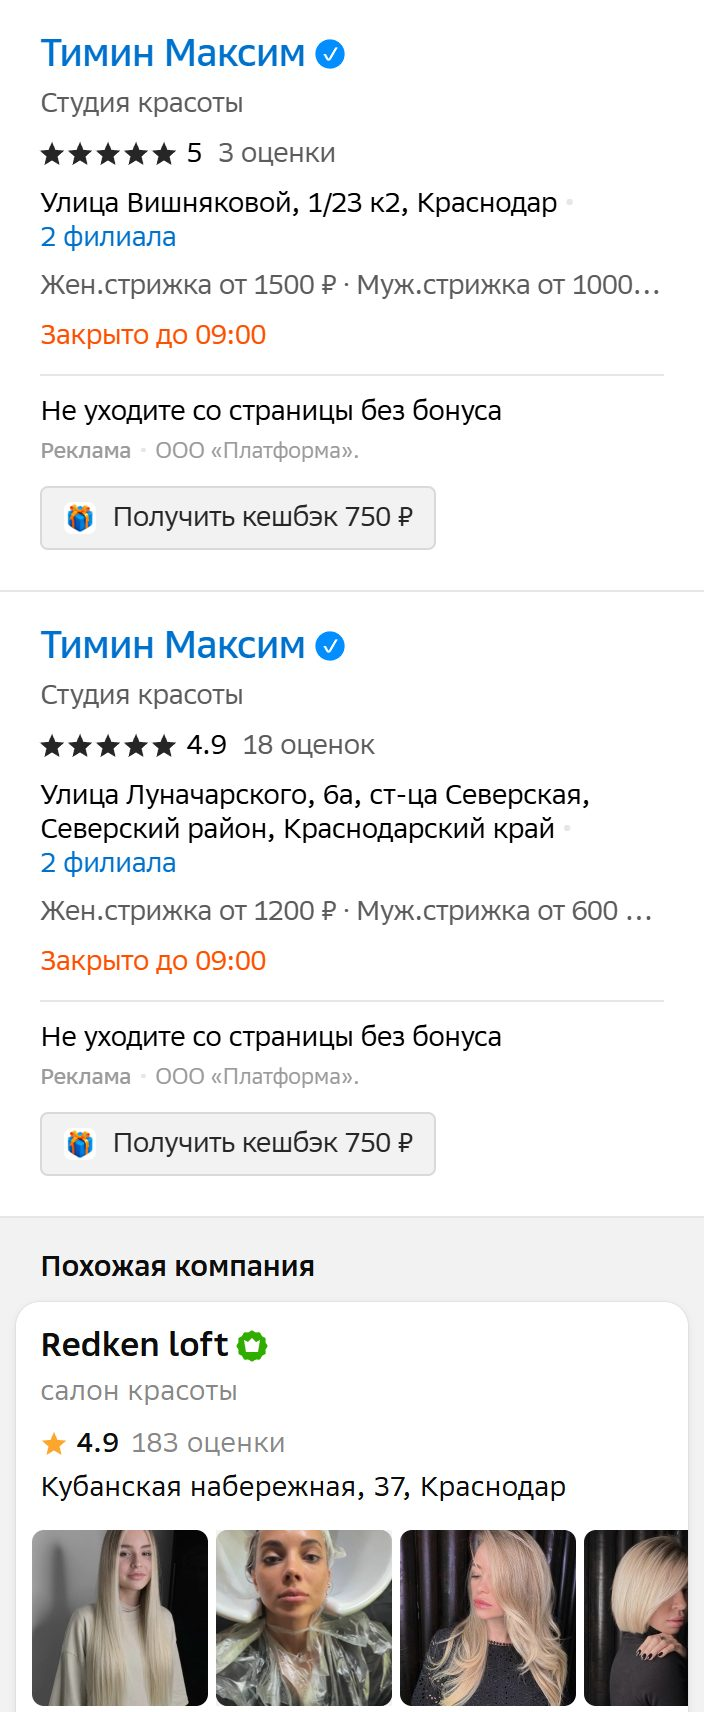
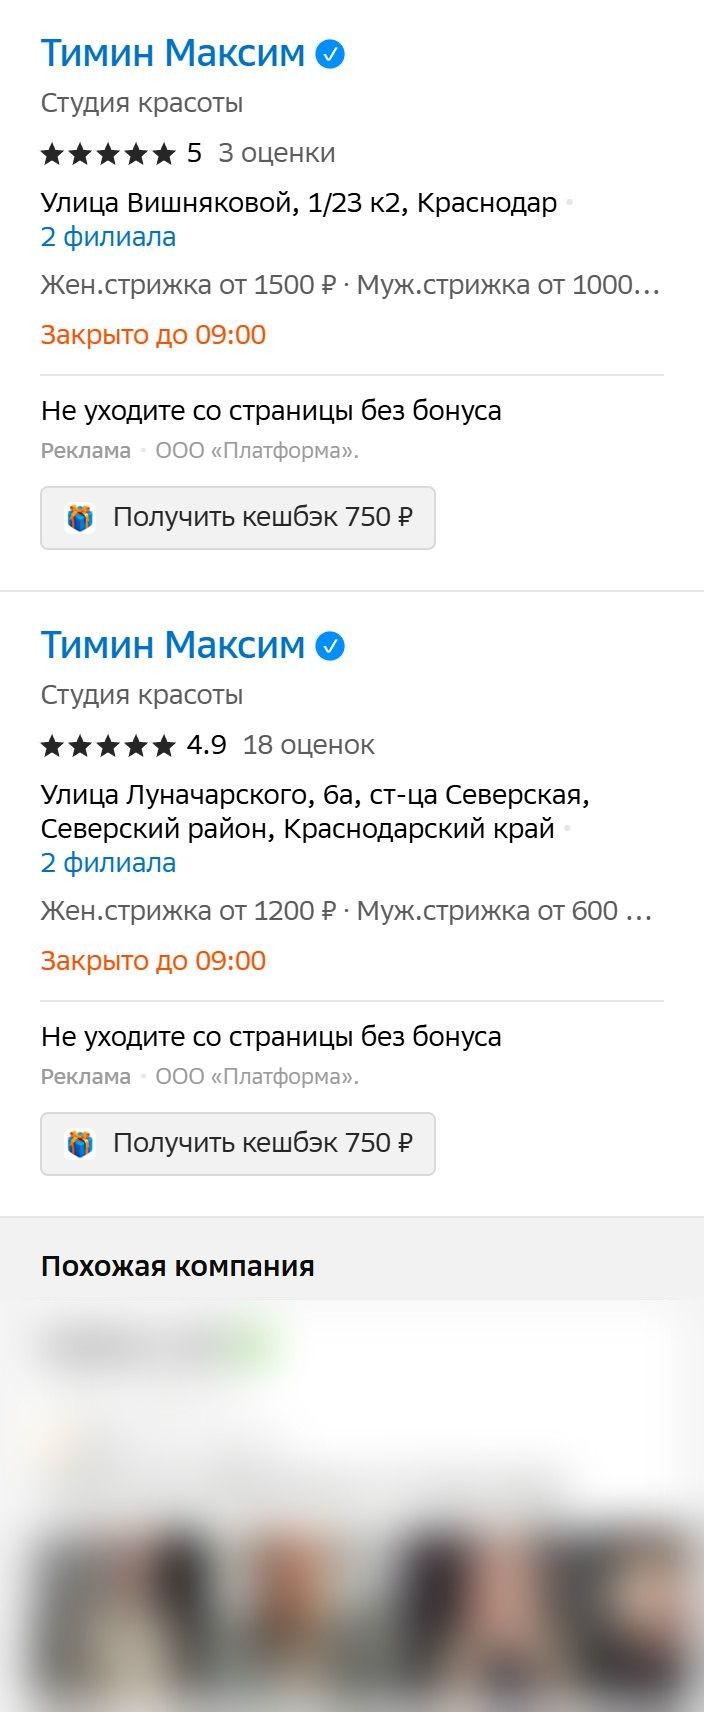
Сайт 2026-10-08 15:29

Changed region(s): [[0.0, 0.743, 1.0, 1.0]]

diff --git a/razbor/index.html b/razbor/index.html
@@ -33,11 +33,11 @@
 <article class="item">
   <span class="num">01</span>
   <h2>По вашему имени 2ГИС показывает соседей</h2>
-  <p>По запросу «Тимин Максим» в 2ГИС сразу под вашими карточками идёт блок «Похожая компания» с рекламой другого салона. 7 и 8 октября там показывались Redken loft и «Стрижка shop». У Redken loft в блоке кнопка «Записаться онлайн», в ваших карточках такой нет.</p>
-  <p>Оценок у вас в 2ГИС 18 в Северской и 3 в Краснодаре, у Redken loft — 183.</p>
+  <p>По запросу «Тимин Максим» в 2ГИС сразу под вашими карточками идёт блок «Похожая компания» с рекламой другого салона. Клиентка искала именно вас, а 2ГИС тут же предлагает ей соседей. Записаться онлайн из ваших карточек нельзя.</p>
+  <p>Оценок у вас в 2ГИС 18 в Северской и 3 в Краснодаре, хотя на Яндексе у Северской их 160.</p>
   <figure>
-    <a class="zoom" href="img/2gis.jpg"><picture><source type="image/webp" srcset="img/2gis.webp"><img class="shot shot--narrow" src="img/2gis.jpg" width="704" height="1712" alt="2ГИС, поиск «Тимин Максим»: две карточки студии и под ними блок «Похожая компания» с салоном Redken loft" loading="lazy"></picture></a>
-    <figcaption>2ГИС, поиск «Тимин Максим», 8 октября. Реклама меняется, у вас может показываться другой салон.</figcaption>
+    <a class="zoom" href="img/2gis.jpg"><picture><source type="image/webp" srcset="img/2gis.webp"><img class="shot shot--narrow" src="img/2gis.jpg" width="704" height="1712" alt="2ГИС, поиск «Тимин Максим»: две карточки студии и под ними блок «Похожая компания» с рекламой другого салона, она размыта" loading="lazy"></picture></a>
+    <figcaption>2ГИС, поиск «Тимин Максим», 8 октября. Рекламу другого салона мы размыли.</figcaption>
   </figure>
   <div class="fix"><span class="caps">Что сделаем</span><p>Рекламу в этом блоке продаёт 2ГИС, её не убрать. Добавим в ваши карточки ссылку на сайт с записью, выровняем цены с Яндексом и начнём собирать отзывы.</p></div>
 </article>
@@ -99,7 +99,7 @@
 <article class="item">
   <span class="num">06</span>
   <h2>Краснодарскую студию почти не видно</h2>
-  <p>У студии в Краснодаре 30 оценок на Яндексе и 3 в 2ГИС. У салонов рядом их десятки и сотни: у Redken loft, который рекламируется по вашему имени, в 2ГИС 183 оценки.</p>
+  <p>У студии в Краснодаре 30 оценок на Яндексе и 3 в 2ГИС. По карточкам Краснодара не скажешь, что у той же студии в Северской 5,0 и 160 оценок.</p>
   <div class="fix"><span class="caps">Что сделаем</span><p>Сайт и Telegram сразу на обе точки и одинаково оформленные карточки. Постоянных клиенток попросим оставить отзыв и в 2ГИС.</p></div>
 </article>
 
